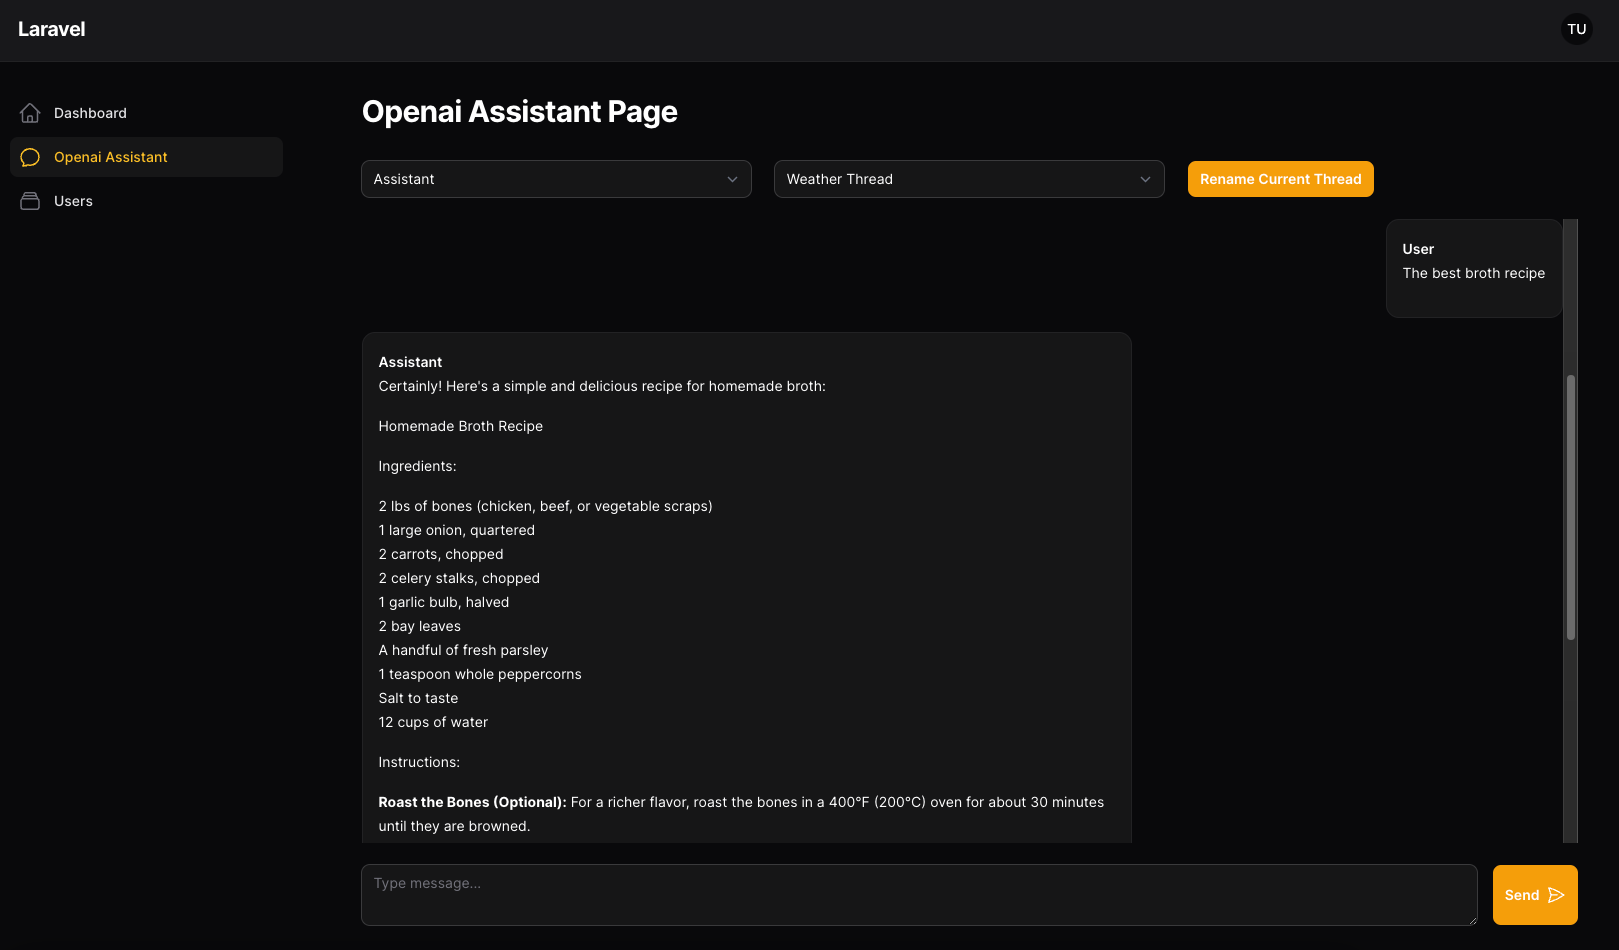
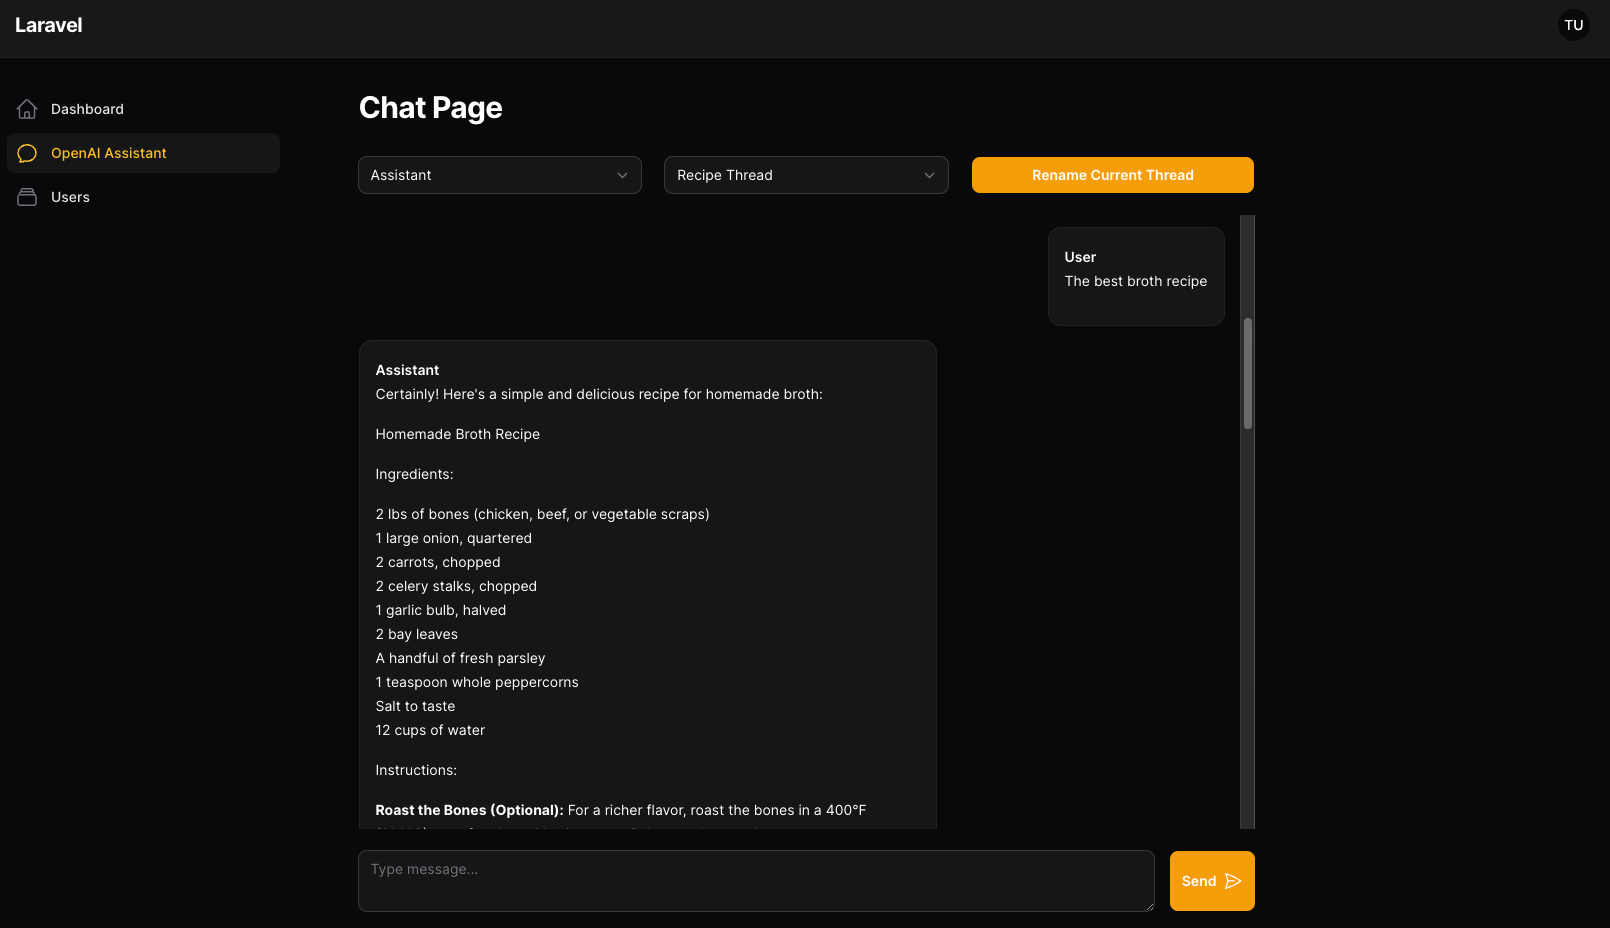
Reduced the chat container, updated the screenshots, added padding from the scroll

diff --git a/resources/dist/filament-openai-assistant.css b/resources/dist/filament-openai-assistant.css
@@ -1,53 +1,1 @@
-.self-end {
-    align-self: flex-end;
-}
-.loader-ioa {
-    width: 10px;
-    aspect-ratio: 1;
-    border-radius: 50%;
-    animation: l5 1s linear infinite alternate;
-    margin-left: auto;
-    margin-right: auto;
-}
-html.dark .loader-ioa {
-    animation-name: l5Dark;
-}
-@keyframes l5 {
-    0% {
-        box-shadow: 20px 0 #000, -20px 0 #0002;
-        background: #000;
-    }
-    33% {
-        box-shadow: 20px 0 #000, -20px 0 #0002;
-        background: #0002;
-    }
-    66% {
-        box-shadow: 20px 0 #0002, -20px 0 #000;
-        background: #0002;
-    }
-    to {
-        box-shadow: 20px 0 #0002, -20px 0 #000;
-        background: #000;
-    }
-}
-@keyframes l5Dark {
-    0% {
-        box-shadow: 20px 0 #fff, -20px 0 #fff2;
-        background: #fff;
-    }
-    33% {
-        box-shadow: 20px 0 #fff, -20px 0 #fff2;
-        background: #fff2;
-    }
-    66% {
-        box-shadow: 20px 0 #fff2, -20px 0 #fff;
-        background: #fff2;
-    }
-    to {
-        box-shadow: 20px 0 #fff2, -20px 0 #fff;
-        background: #fff;
-    }
-}
-.assistant-ai-message > * {
-    margin-bottom: 1rem;
-}
+.self-end{align-self:flex-end}.loader-ioa{width:10px;aspect-ratio:1;border-radius:50%;animation:l5 1s linear infinite alternate;margin-left:auto;margin-right:auto}html.dark .loader-ioa{animation-name:l5Dark}@keyframes l5{0%{box-shadow:20px 0 #000,-20px 0 #0002;background:#000}33%{box-shadow:20px 0 #000,-20px 0 #0002;background:#0002}66%{box-shadow:20px 0 #0002,-20px 0 #000;background:#0002}to{box-shadow:20px 0 #0002,-20px 0 #000;background:#000}}@keyframes l5Dark{0%{box-shadow:20px 0 #fff,-20px 0 #fff2;background:#fff}33%{box-shadow:20px 0 #fff,-20px 0 #fff2;background:#fff2}66%{box-shadow:20px 0 #fff2,-20px 0 #fff;background:#fff2}to{box-shadow:20px 0 #fff2,-20px 0 #fff;background:#fff}}.assistant-ai-messages{max-height:calc(100vh - 21rem);padding-left:1px;padding-right:1px}.assistant-ai-message>*{margin-bottom:1rem}

diff --git a/resources/css/index.css b/resources/css/index.css
@@ -53,6 +53,12 @@ html.dark .loader-ioa {
     }
 }
 
+.assistant-ai-messages {
+    max-height: calc(100vh - 21rem);
+    padding-left: 1px;
+    padding-right: 1px;
+}
+
 .assistant-ai-message > * {
     margin-bottom: 1rem;
 }

diff --git a/resources/views/pages/assistant-chat.blade.php b/resources/views/pages/assistant-chat.blade.php
@@ -1,6 +1,6 @@
 <x-filament-panels::page fullHeight="true">
     <div
-        class="flex h-full flex-col justify-between"
+        class="flex h-full max-w-4xl flex-col justify-between"
         x-data="{}"
         x-load-css="[@js(\Filament\Support\Facades\FilamentAsset::getStyleHref('filament-openai-assistant', 'ercogx/filament-openai-assistant'))]"
     >
@@ -33,7 +33,7 @@
             @if ($selectedThread !== 'new-thread')
                 <x-filament::modal id="rename-thread">
                     <x-slot name="trigger">
-                        <x-filament::button>
+                        <x-filament::button class="w-full">
                             {{ __('filament-openai-assistant::assistant-page.rename_current_thread') }}
                         </x-filament::button>
                     </x-slot>
@@ -65,19 +65,18 @@
 
         <div
             class="assistant-ai-messages mt-4 flex flex-grow overflow-y-auto"
-            style="max-height: calc(100vh - 21rem)"
             x-data="{
-                scroll: () => {
+                isScrollable: false,
+                scroll() {
                     $el.scrollTo(0, $el.scrollHeight)
+                    this.isScrollable = $el.offsetHeight < $el.scrollHeight
                 },
             }"
             x-intersect="scroll()"
             x-on:chat-updated.window="$nextTick(() => scroll())"
+            :style="isScrollable && { 'padding-right': '1rem' }"
         >
-            <div
-                class="mt-auto flex w-full flex-col justify-end"
-                style="padding: 0 1px"
-            >
+            <div class="mt-auto flex w-full flex-col justify-end">
                 @if ($hasMore)
                     <div class="mb-4 flex w-full justify-center">
                         <x-filament::button
@@ -92,7 +91,7 @@
                 @foreach ($messages as $message)
                     <div
                         @class([
-                            'mb-4 max-w-3xl rounded-xl bg-white p-4 shadow-sm ring-1 ring-gray-950/5 dark:bg-white/5 dark:ring-white/10',
+                            'mb-4 max-w-xl rounded-xl bg-white p-4 shadow-sm ring-1 ring-gray-950/5 dark:bg-white/5 dark:ring-white/10',
                             'self-end' => $message['role'] === 'user',
                             'self-start' => $message['role'] === 'assistant',
                         ])
